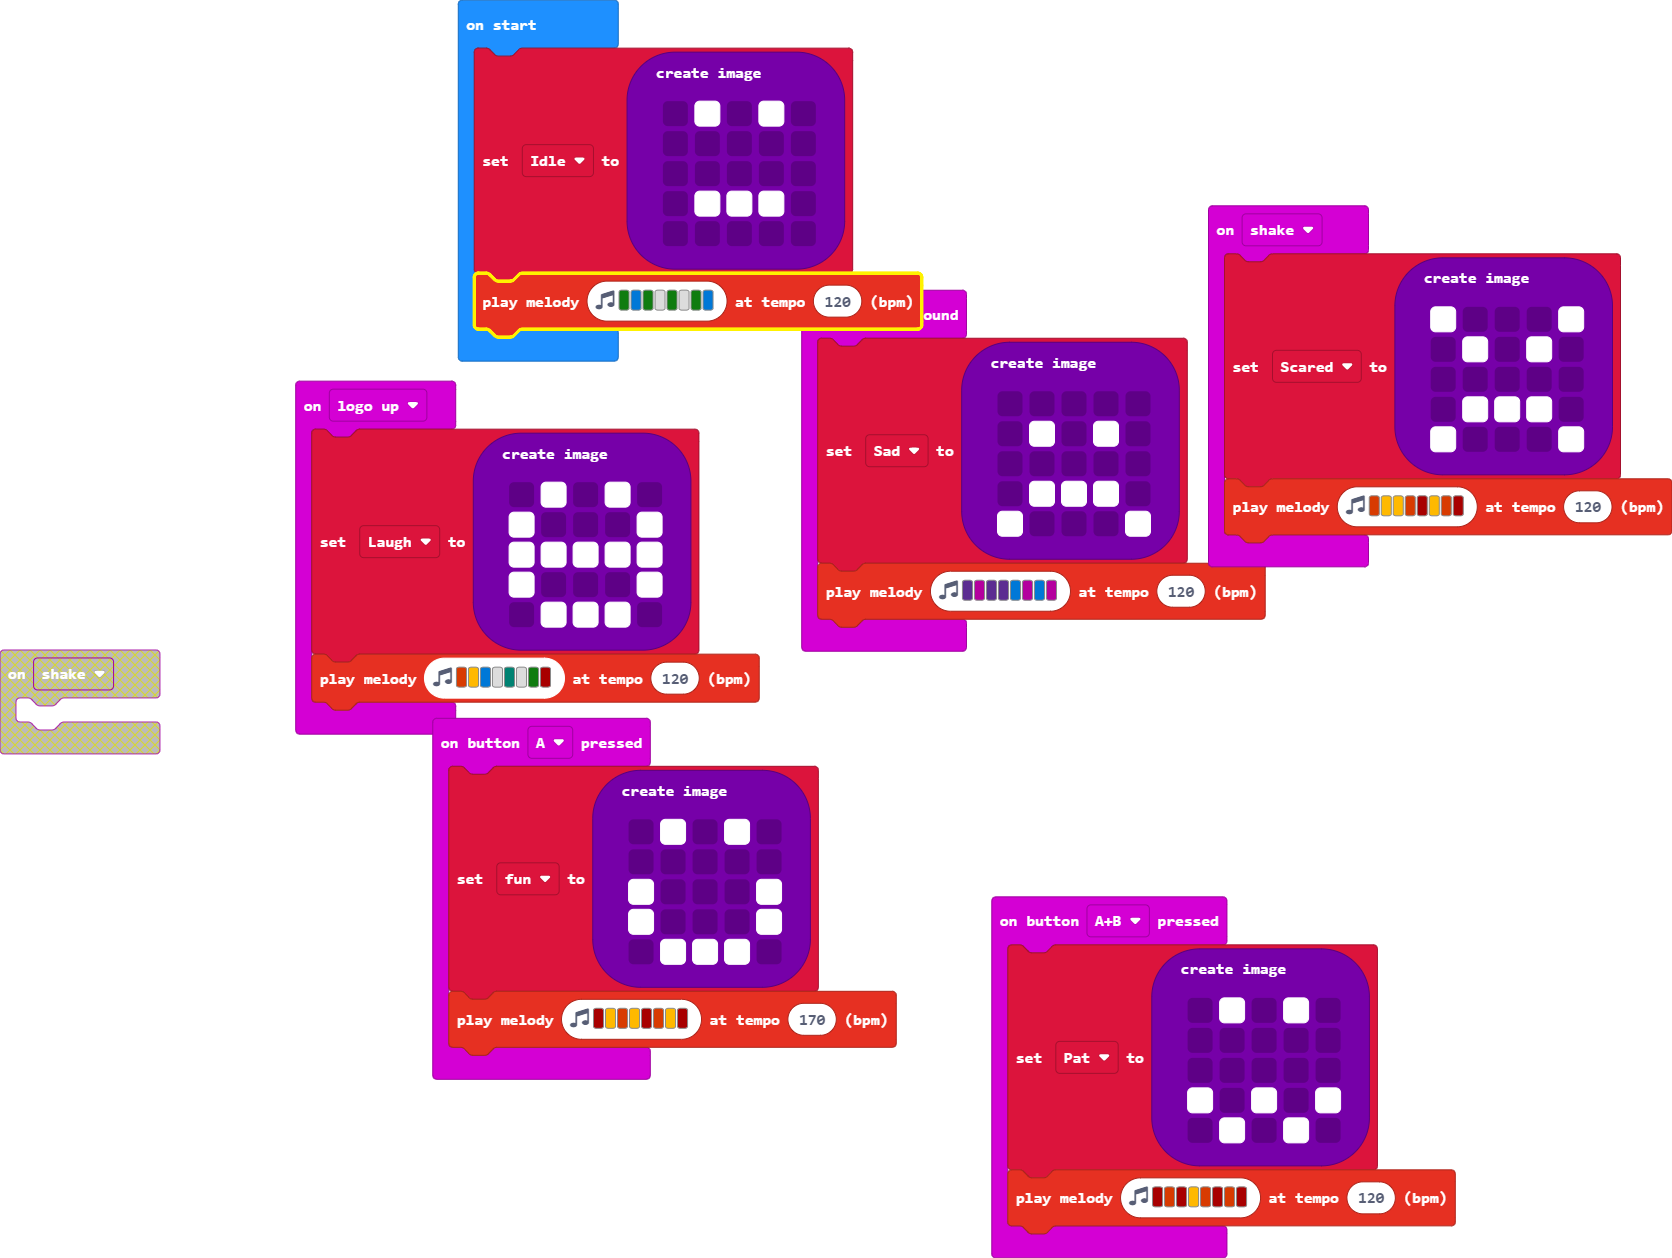
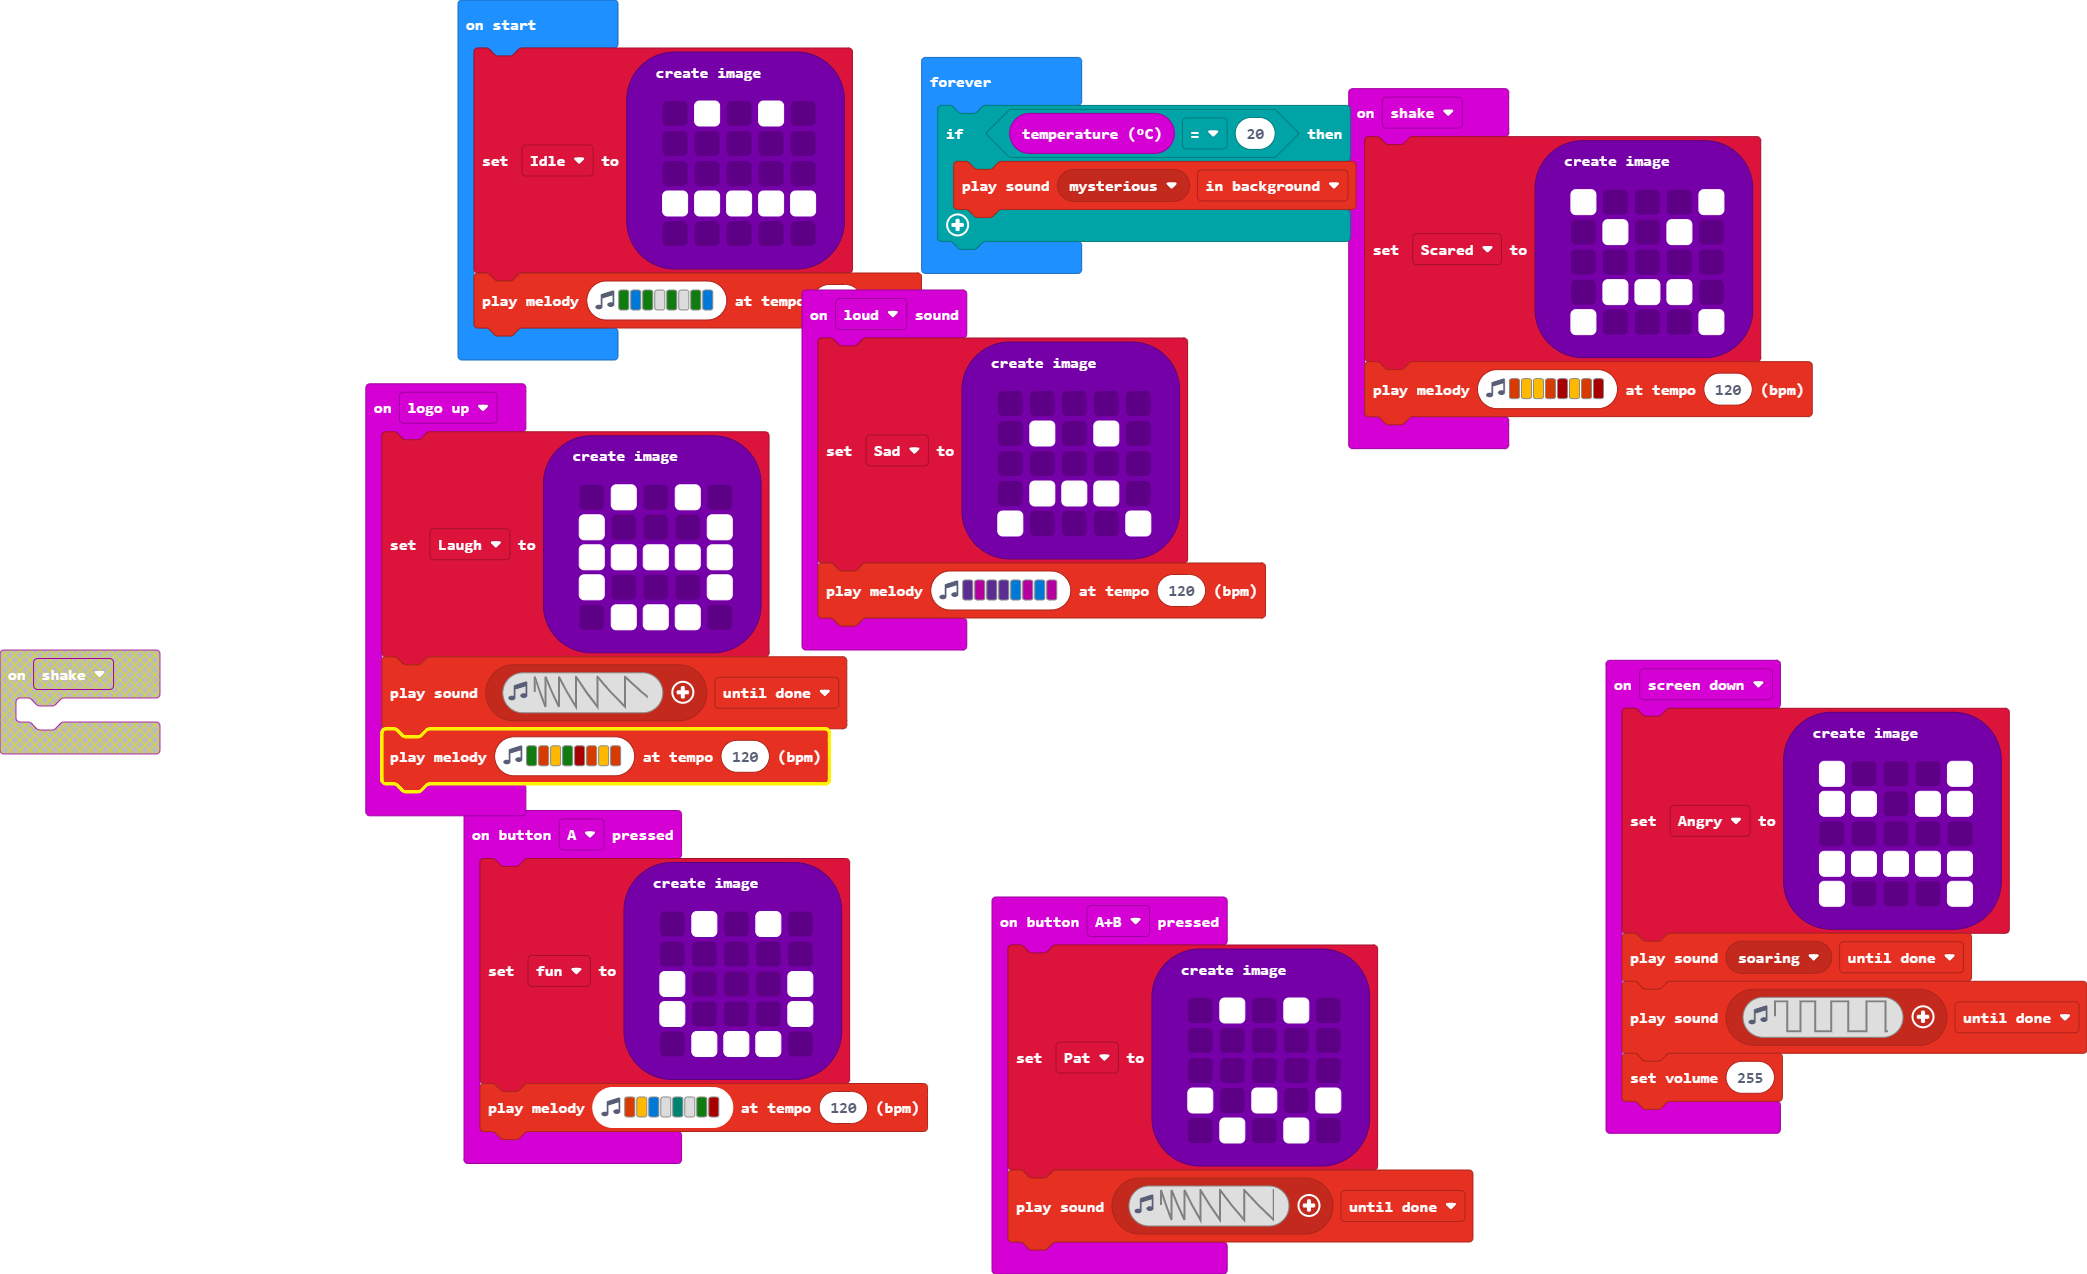
Much more features

diff --git a/main.ts b/main.ts
@@ -6,7 +6,7 @@ input.onButtonPressed(Button.A, function () {
         # . . . #
         . # # # .
         `)
-    music.playMelody("C5 A B A C5 B A C5 ", 170)
+    music.playMelody("B A E - F - G C5 ", 120)
 })
 input.onGesture(Gesture.LogoUp, function () {
     Laugh = images.createImage(`
@@ -16,7 +16,20 @@ input.onGesture(Gesture.LogoUp, function () {
         # . . . #
         . # # # .
         `)
-    music.playMelody("B A E - F - G C5 ", 120)
+    music.playSoundEffect(music.createSoundEffect(WaveShape.Sawtooth, 5000, 1984, 255, 255, 500, SoundExpressionEffect.None, InterpolationCurve.Linear), SoundExpressionPlayMode.UntilDone)
+    music.playMelody("G B A G C5 B A B ", 120)
+})
+input.onGesture(Gesture.ScreenDown, function () {
+    Angry = images.createImage(`
+        # . . . #
+        # # . # #
+        . . . . .
+        # # # # #
+        # . . . #
+        `)
+    music.playSoundEffect(music.builtinSoundEffect(soundExpression.soaring), SoundExpressionPlayMode.UntilDone)
+    music.playSoundEffect(music.createSoundEffect(WaveShape.Square, 3558, 2085, 255, 255, 500, SoundExpressionEffect.Tremolo, InterpolationCurve.Curve), SoundExpressionPlayMode.UntilDone)
+    music.setVolume(255)
 })
 input.onSound(DetectedSound.Loud, function () {
     Sad = images.createImage(`
@@ -36,7 +49,7 @@ input.onButtonPressed(Button.AB, function () {
         # . # . #
         . # . # .
         `)
-    music.playMelody("C5 B C5 A B C5 B C5 ", 120)
+    music.playSoundEffect(music.createSoundEffect(WaveShape.Sawtooth, 5000, 2385, 255, 255, 500, SoundExpressionEffect.None, InterpolationCurve.Linear), SoundExpressionPlayMode.UntilDone)
 })
 input.onGesture(Gesture.Shake, function () {
     Scared = images.createImage(`
@@ -51,13 +64,19 @@ input.onGesture(Gesture.Shake, function () {
 let Scared: Image = null
 let Pat: Image = null
 let Sad: Image = null
+let Angry: Image = null
 let Laugh: Image = null
 let fun: Image = null
 let Idle = images.createImage(`
     . # . # .
     . . . . .
     . . . . .
-    . # # # .
+    # # # # #
     . . . . .
     `)
 music.playMelody("G E G - G - G E ", 120)
+basic.forever(function () {
+    if (input.temperature() == 20) {
+        music.playSoundEffect(music.builtinSoundEffect(soundExpression.mysterious), SoundExpressionPlayMode.InBackground)
+    }
+})
